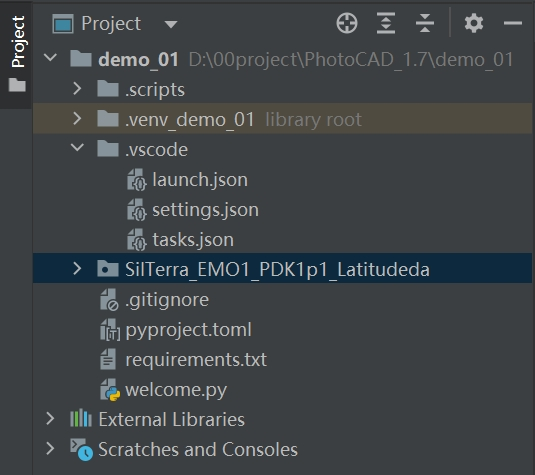
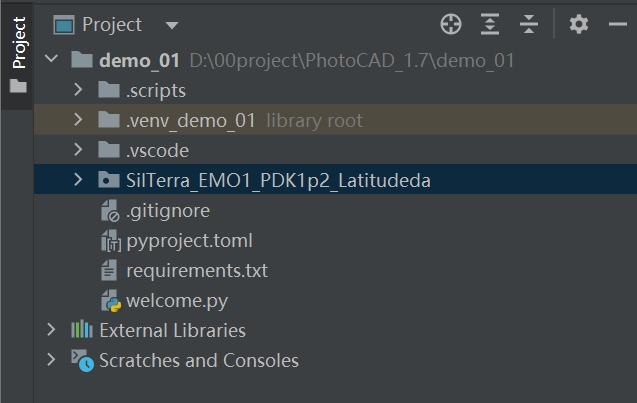
PDK1p2 PhotoCAD part update

diff --git a/docs/source/source/conf.py b/docs/source/source/conf.py
@@ -6,8 +6,8 @@ project = 'SilTerra EMO1 PDK documentation'
 copyright = '2024, Latitudeda.com'
 author = 'latitudeda.com'
 
-release = '1.1'
-version = '1.1.0'
+release = '1.2'
+version = '1.2.0'
 
 # -- General configuration
 

diff --git a/docs/source/source/component_list/via.rst b/docs/source/source/component_list/via.rst
@@ -8,11 +8,11 @@ Via
 +----------------+------------------+-----------------------------------------------------------------------------------+
 | Parameters     | Default          | Description                                                                       |
 +================+==================+===================================================================================+
-|top_layer       | LAYER.UTM        | Upper metal layer                                                                 |
+|top_layer       | LAYER.UTM2       | Upper metal layer                                                                 |
 +----------------+------------------+-----------------------------------------------------------------------------------+
 |via_layer       | LAYER.UTV        | Via layer                                                                         |
 +----------------+------------------+-----------------------------------------------------------------------------------+
-|bottom_layer    | LAYER.UTM2       | Lower metal layer                                                                 |
+|bottom_layer    | LAYER.UTM        | Lower metal layer                                                                 |
 +----------------+------------------+-----------------------------------------------------------------------------------+
 |top_shape       | VIAS.TOP_SHAPE   | Upper metal shape                                                                 |
 +----------------+------------------+-----------------------------------------------------------------------------------+
@@ -28,17 +28,17 @@ Vias
 +----------------+------------------+-----------------------------------------------------------------------------------+
 | Parameters     | Default          | Description                                                                       |
 +================+==================+===================================================================================+
-|width           | 4.3um            | Width of array of via                                                             |
+|width           | 20um             | Width of array of via                                                             |
 +----------------+------------------+-----------------------------------------------------------------------------------+
-|height          | 4.3um            | Height of array of via                                                            |
+|height          | 20um             | Height of array of via                                                            |
 +----------------+------------------+-----------------------------------------------------------------------------------+
 |spacing         | VIAS.SPACING     | Spacing between vias in array                                                     |
 +----------------+------------------+-----------------------------------------------------------------------------------+
-|top_layer       | LAYER.UTM        | Upper metal layer                                                                 |
+|top_layer       | LAYER.UTM2       | Upper metal layer                                                                 |
 +----------------+------------------+-----------------------------------------------------------------------------------+
 |via_layer       | LAYER.UTV        | Via layer                                                                         |
 +----------------+------------------+-----------------------------------------------------------------------------------+
-|bottom_layer    | LAYER.UTM2       | Lower metal layer                                                                 |
+|bottom_layer    | LAYER.UTM       | Lower metal layer                                                                 |
 +----------------+------------------+-----------------------------------------------------------------------------------+
 |via             | Via()            | Upper metal shape                                                                 |
 +----------------+------------------+-----------------------------------------------------------------------------------+

diff --git a/docs/source/source/quick_start/PhotoCAD.rst b/docs/source/source/quick_start/PhotoCAD.rst
@@ -53,13 +53,13 @@ Import SilTerra PDK into PhotoCAD
 
 First, make sure that the SilTerra PDK version matches the version of **PhotoCAD**. The version of **PhotoCAD** can be obtained in ``Run`` by running scripts in **PhotoCAD**.
 
-Extract the ``SilTerra_EMO1_PDK1p1_Latitudeda`` zip archive and copy it to the workspace folder. As shown in the figure below, the ``SilTerra_EMO1_PDK1p1_Latitudeda`` folder is in the demo folder and parallel to .vene_demo.
+Extract the ``SilTerra_EMO1_PDK1p2_Latitudeda`` zip archive and copy it to the workspace folder. As shown in the figure below, the ``SilTerra_EMO1_PDK1p2_Latitudeda`` folder is in the demo folder and parallel to .vene_demo.
 
 .. image:: ../images/PhotoCAD_6.png
 
-It's important to note that the PDK folder structure is the same as in the figure. Subfolders such as ``components`` and ``examples`` should be seen when expanding the ``SilTerra_EMO1_PDK1p1_Latitudeda`` folder. Otherwise, the import path will be wrong when you run the code.
+It's important to note that the PDK folder structure is the same as in the figure. Subfolders such as ``components`` and ``examples`` should be seen when expanding the ``SilTerra_EMO1_PDK1p2_Latitudeda`` folder. Otherwise, the import path will be wrong when you run the code.
 
-Open and run ``SilTerra_EMO1_PDK1p1_Latitudeda/examples/link_test.py``. PDK will be imported successfully if there are no errors and ``link_test.gds`` will be exported.
+Open and run ``SilTerra_EMO1_PDK1p2_Latitudeda/examples/link_test.py``. PDK will be imported successfully if there are no errors and ``link_test.gds`` will be exported.
 
 .. image:: ../images/PhotoCAD_7.png
 

diff --git a/docs/source/source/component_list/taper.rst b/docs/source/source/component_list/taper.rst
@@ -26,7 +26,7 @@ TaperLinear
 
 TaperParabolic
 **********************************************************
-.. image:: ../images/taper_parabolic_lrib.png
+.. image:: ../images/taper_parabolic_strip.png
 
 +----------------+-----------------+------------------------------------------------------------------------------------+
 | Parameters     | Range           | Description                                                                        |
@@ -43,7 +43,7 @@ TaperParabolic
 +-------------------+-----------------------------+-------------+
 |     ports         |   default waveguide type    | orientation |
 +===================+=============================+=============+
-| op_0              | TECH.WG.LRIB.C.WIRE         | 180         |
+| op_0              | TECH.WG.STRIP.C.WIRE        | 180         |
 +-------------------+-----------------------------+-------------+
-| op_1              | TECH.WG.LRIB.C.WIRE         | 0           |
+| op_1              | TECH.WG.STRIP.C.WIRE        | 0           |
 +-------------------+-----------------------------+-------------+

diff --git a/docs/source/source/structure/index.rst b/docs/source/source/structure/index.rst
@@ -3,7 +3,7 @@ PDK structure
 
 Process Design Kit (PDK) is a tool for designated users to generate circuit layouts based on SilTerra design rules and technology settings.
 
-``SilTerra_EMO1_PDK1p1_Latitudeda`` package includes six subfolders: ``components``, ``examples``, ``technology``, and ``util``.
+``SilTerra_EMO1_PDK1p2_Latitudeda`` package includes six subfolders: ``components``, ``examples``, ``technology``, and ``util``.
 
 * ``components``
 
@@ -26,7 +26,7 @@ Process Design Kit (PDK) is a tool for designated users to generate circuit layo
 
     * Please see **PhotoCAD** online manual for more information.
 
-* ``SilTerra_EMO1_PDK1p1_Latitudeda.lyp`` : This file allows layout tools e.g. Klayout to recognize the layer information when displaying gds file to the layout tool.
+* ``SilTerra_EMO1_PDK1p2_Latitudeda.lyp`` : This file allows layout tools e.g. Klayout to recognize the layer information when displaying gds file to the layout tool.
 
     .. image:: ../images/lyp.png
 

diff --git a/docs/source/source/intro/install_photocad.rst b/docs/source/source/intro/install_photocad.rst
@@ -3,6 +3,6 @@ Install PhotoCAD and SilTerra PDK
 
 Once Python and Pycharm are installed, you can follow the instructions to install **PhotoCAD** via **PIC Studio**. After installation, we will find the completed **fnpcell** and **gpdk** packages in ``Lib>site-packages``. **fnpcell** is the main package of **PhotoCAD**, which is used for parametric layout component scripts and layout routing scripts. **gpdk** is a collection of all examples in **PhotoCAD**. It contains both component cell layout scripts and other design templates based on parametric component cells.
 
-To install SilTerra PDK package to **PhotoCAD**, extract ``SilTerra_EMO1_PDK1p1_Latitudeda.zip`` to the project folder.
+To install SilTerra PDK package to **PhotoCAD**, extract ``SilTerra_EMO1_PDK1p2_Latitudeda.zip`` to the project folder.
 
 .. image:: ../images/install.png

diff --git a/docs/source/source/tech/auto_vias.rst b/docs/source/source/tech/auto_vias.rst
@@ -1,0 +1,8 @@
+auto_vias.py
+====================
+
+Define the vias between different metal line type.
+
+In SilTerra PDK, the vias array of the ``UTV`` layer will be added when the connection is made between the metal lines of the ``UTM`` layer and the ``UTM2`` layer.
+
+Users are allowed to define vias and change related parameters by their own specific requirements. Please see ``technology > vias.py`` and ``components > via > vias.py`` to modifiy the default vias.

diff --git a/docs/source/source/tech/layers.rst b/docs/source/source/tech/layers.rst
@@ -57,4 +57,4 @@ The layers are auto-generated by filling the ``layers.csv`` file, ``FLYLINE_MARK
 
 
 
-For users using layout viewers (e.g. KLayout), they can import the layer properties file ``SilTerra_EMO1_PDK1p1_Latitudeda.lyp`` in the file folder.
+For users using layout viewers (e.g. KLayout), they can import the layer properties file ``SilTerra_EMO1_PDK1p2_Latitudeda.lyp`` in the file folder.

diff --git a/docs/source/source/quick_start/ASDL.rst b/docs/source/source/quick_start/ASDL.rst
@@ -28,7 +28,7 @@ Enter the project name and path, select ``SilTerra`` PDK in the PDK column, and 
 
 .. image:: ../images/ASDL_5.png
 
-Wait for the contents of ``Import SilTerra_EMO1_PDK1p1_Latitudeda pdk symbols succeed`` to appear in the output.
+Wait for the contents of ``Import SilTerra_EMO1_PDK1p2_Latitudeda pdk symbols succeed`` to appear in the output.
 
 .. image:: ../images/ASDL_6.png
 

diff --git a/docs/source/source/tech/index.rst b/docs/source/source/tech/index.rst
@@ -10,6 +10,7 @@ The technology in SilTerra PDK holds a number of common configuration files deal
 
    auto_link
    auto_transition
+   auto_vias
    bands
    device
    gdsii
@@ -17,6 +18,7 @@ The technology in SilTerra PDK holds a number of common configuration files deal
    layers
    metrics
    terminal
+   vias
    wg
 
 

diff --git a/docs/source/source/tech/vias.rst b/docs/source/source/tech/vias.rst
@@ -1,0 +1,3 @@
+vias.py
+=============
+Preset the via shape and related parameters in auto-vias.
